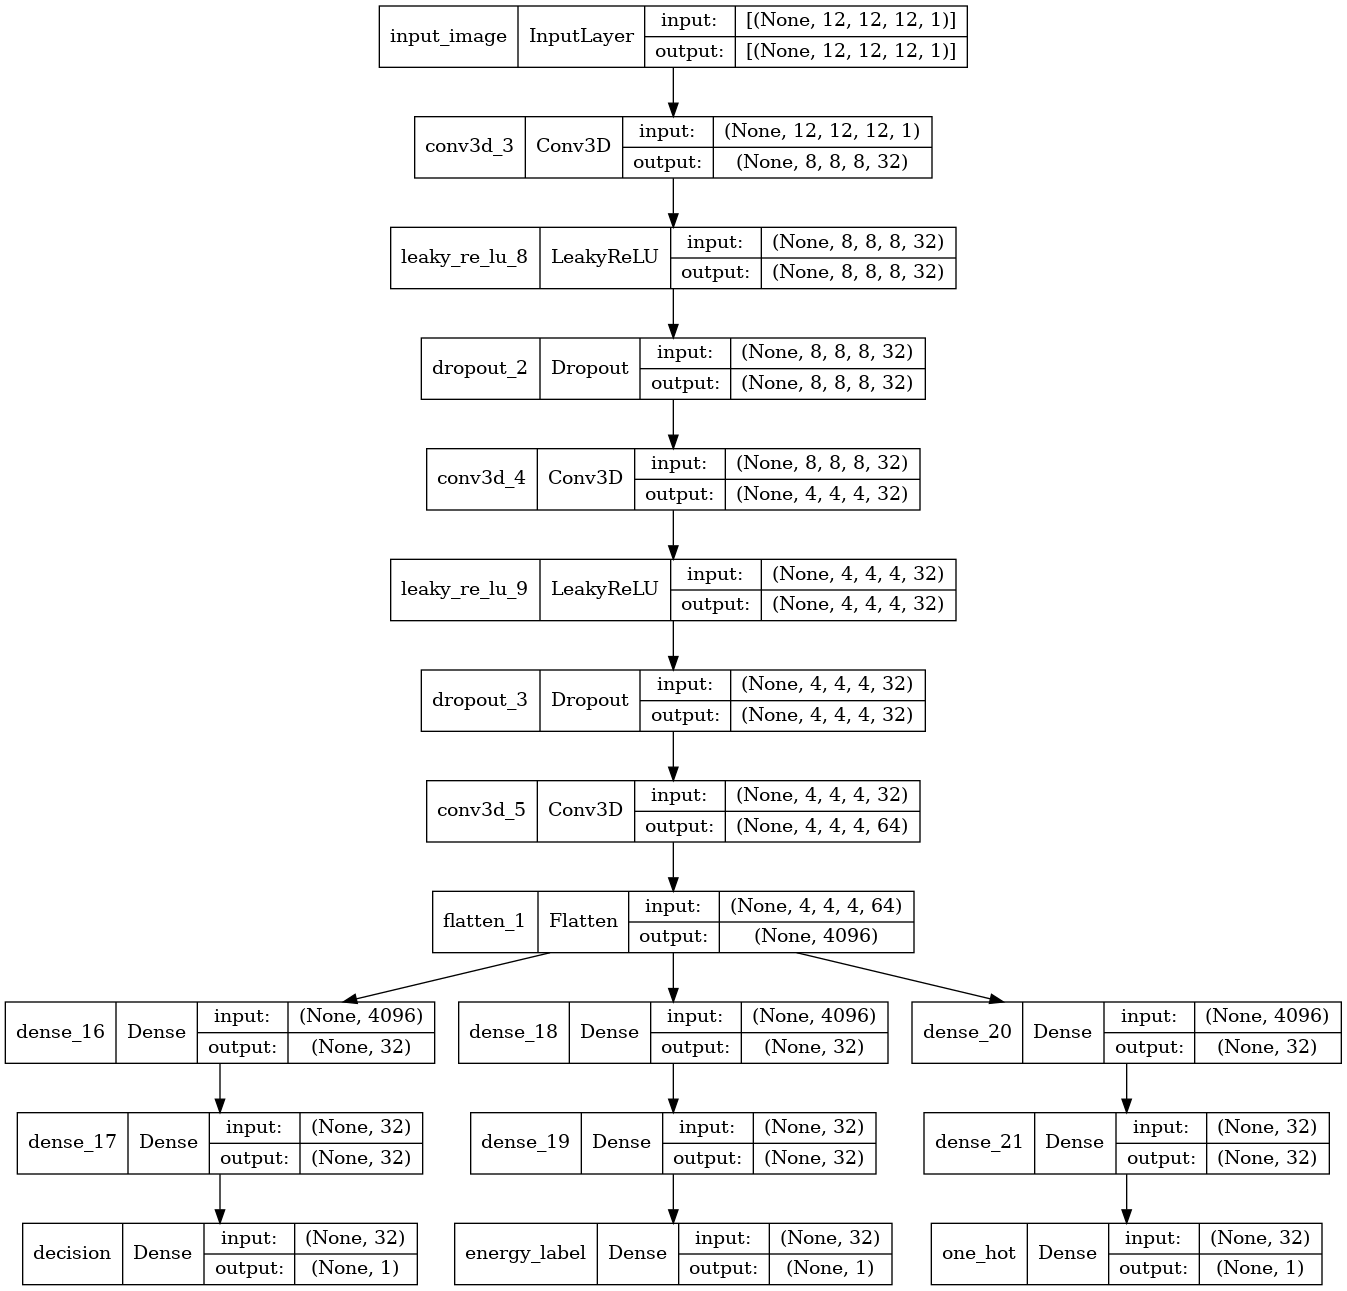
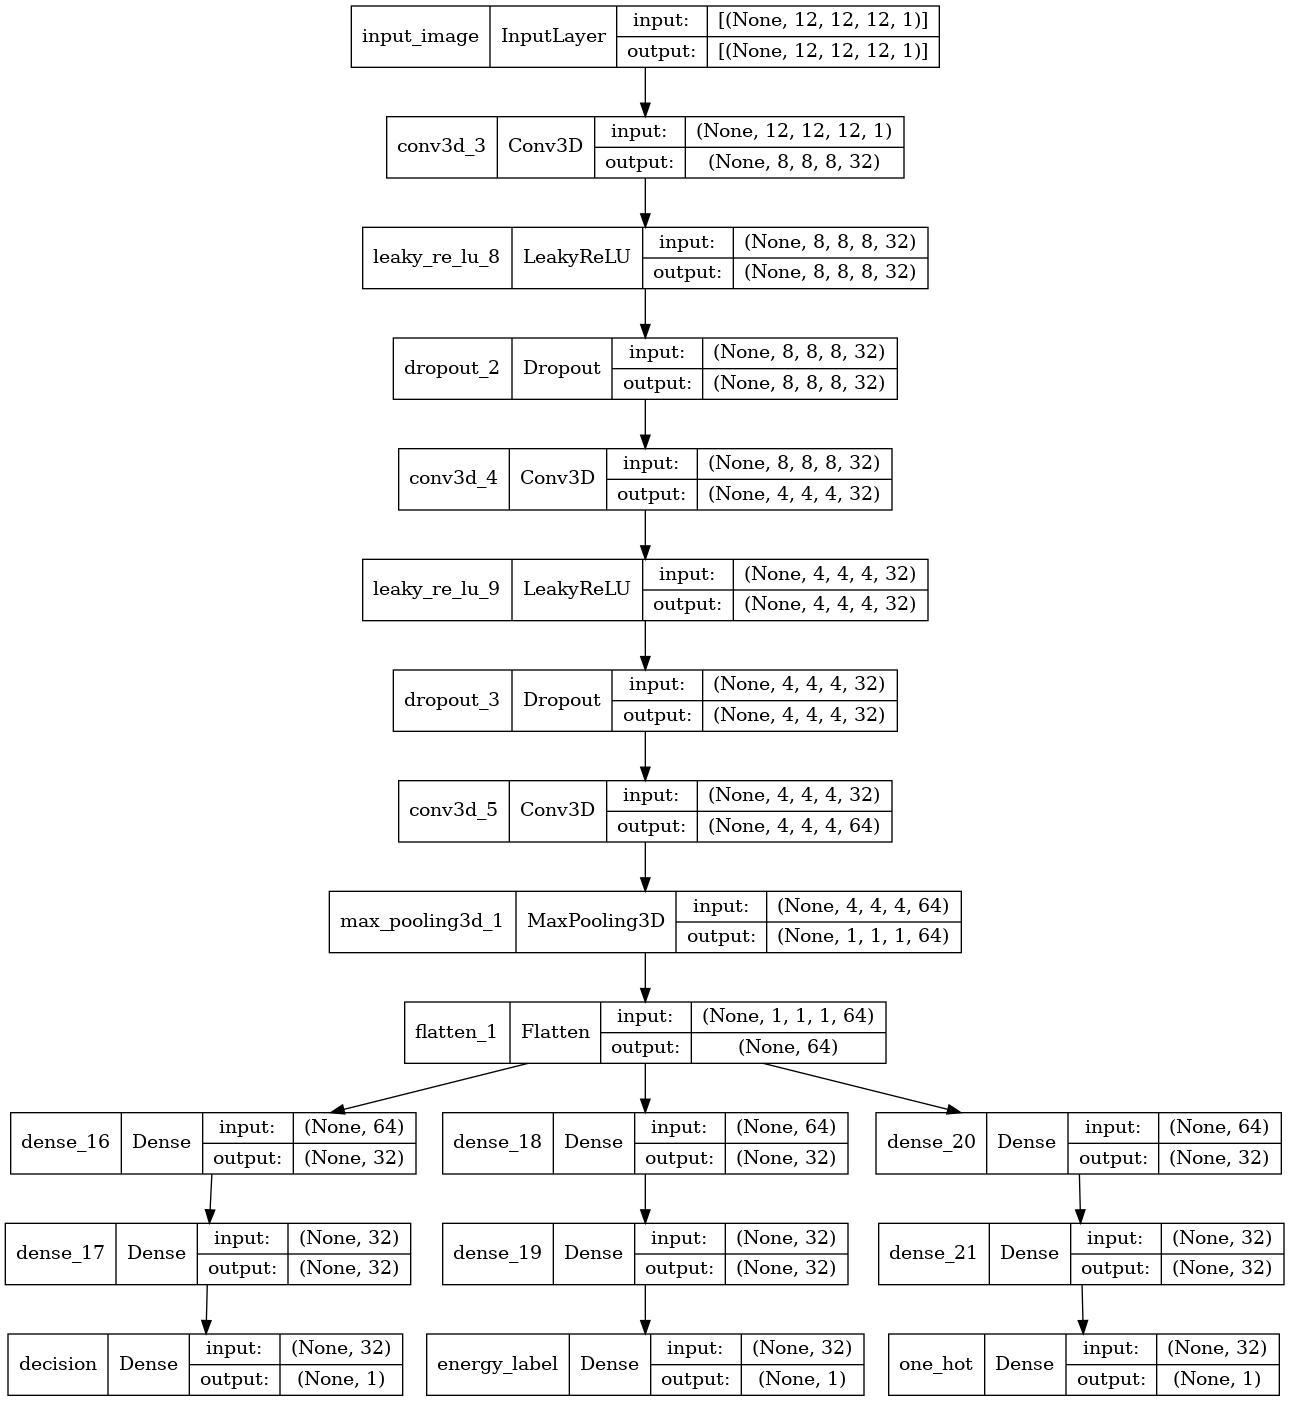
restored PARAM_EN and new scheduler parameters, max_pooling to _C

Changed region(s): [[0.0, 0.0, 1.0, 1.0]]

diff --git a/EM_shower_simulator/class_GAN.py b/EM_shower_simulator/class_GAN.py
@@ -25,7 +25,7 @@ from IPython import display
 # Configuration parameters
 N_PID = 3
 N_ENER = 30 + 1
-PARAM_EN = 0.1
+PARAM_EN = 0.05
 NOISE_DIM = 1024
 ENERGY_NORM = 6.503
 ENERGY_SCALE = 1000000.
@@ -93,7 +93,7 @@ class ConditionalGAN(tf.keras.Model):
     """Class for a conditional GAN.
     It inherits keras.Model properties and functions.
     """
-    def __init__(self, gener, discr, learning_rate=3e-5):
+    def __init__(self, gener, discr, learning_rate=2e-5):
         """Constructor.
         Inputs:
         gener = generator network;
@@ -246,7 +246,7 @@ class ConditionalGAN(tf.keras.Model):
         comparison is made looking at the losses stored in logs.
         """
         if (epoch == wake_up):
-           learning_rate_pro = self.generator_optimizer.lr * 6.
+           learning_rate_pro = self.generator_optimizer.lr * 3.
            if (logs["gener_loss"] > logs["discr_loss"]):
               self.generator_optimizer.lr = learning_rate_pro
               self.switch = False
@@ -256,8 +256,7 @@ class ConditionalGAN(tf.keras.Model):
               self.switch = True
               print("Power to the discriminator!")
         elif (epoch > wake_up):
-
-           decrease = np.exp(-(epoch-wake_up) / (15.*800))
+           decrease = 0.999
            gener_lr = self.generator_optimizer.lr.numpy()
            discr_lr = self.discriminator_optimizer.lr.numpy()
            self.learning_rate = self.learning_rate * decrease
@@ -421,5 +420,5 @@ class ConditionalGAN(tf.keras.Model):
            # Update history and call the scheduler
            for key, value in logs.items():
                self.history.setdefault(key, []).append(value)
-           #self.scheduler(epoch + 1, logs, wake_up=wake_up)
+           self.scheduler(epoch + 1, logs, wake_up=wake_up)
         return self.history

diff --git a/EM_shower_simulator/make_models_C.py b/EM_shower_simulator/make_models_C.py
@@ -16,6 +16,7 @@ from tensorflow.keras.layers import (Input,
                                      LeakyReLU,
                                      Reshape,
                                      Conv3DTranspose,
+                                     MaxPooling3D,
                                      Conv3D,
                                      Dropout,
                                      Lambda,
@@ -188,12 +189,13 @@ def make_discriminator_model():
     discr = LeakyReLU()(discr)
     discr = Dropout(0.3)(discr)
 
-    discr = Conv3D(N_FILTER, KERNEL, use_bias=False)(discr)
+    discr = Conv3D(N_FILTER, KERNEL, padding="same", use_bias=False)(discr)
     logger.info(discr.get_shape())
     discr = LeakyReLU()(discr)
     discr = Dropout(0.3)(discr)
 
     discr = Conv3D(2*N_FILTER, KERNEL, padding="same", use_bias=False)(discr)
+    discr = MaxPooling3D(pool_size = KERNEL, padding ="same")(discr)
     logger.info(discr.get_shape())
     discr = Flatten()(discr)
 

diff --git a/EM_shower_simulator/train_C.py b/EM_shower_simulator/train_C.py
@@ -42,7 +42,7 @@ logGAN.addHandler(ch)
 #-------------------------------------------------------------------------------
 
 def train_cgan(cond_gan, train_dataset):
-    history = cond_gan.train(train_dataset, epochs=100, batch=64, wake_up=10)
+    history = cond_gan.train(train_dataset, epochs=100, batch=32, wake_up=15)
     #history = cond_gan.fit(train_dataset, epochs=3, batch=2048)
 
     plt.figure("Evolution of losses per epochs")
